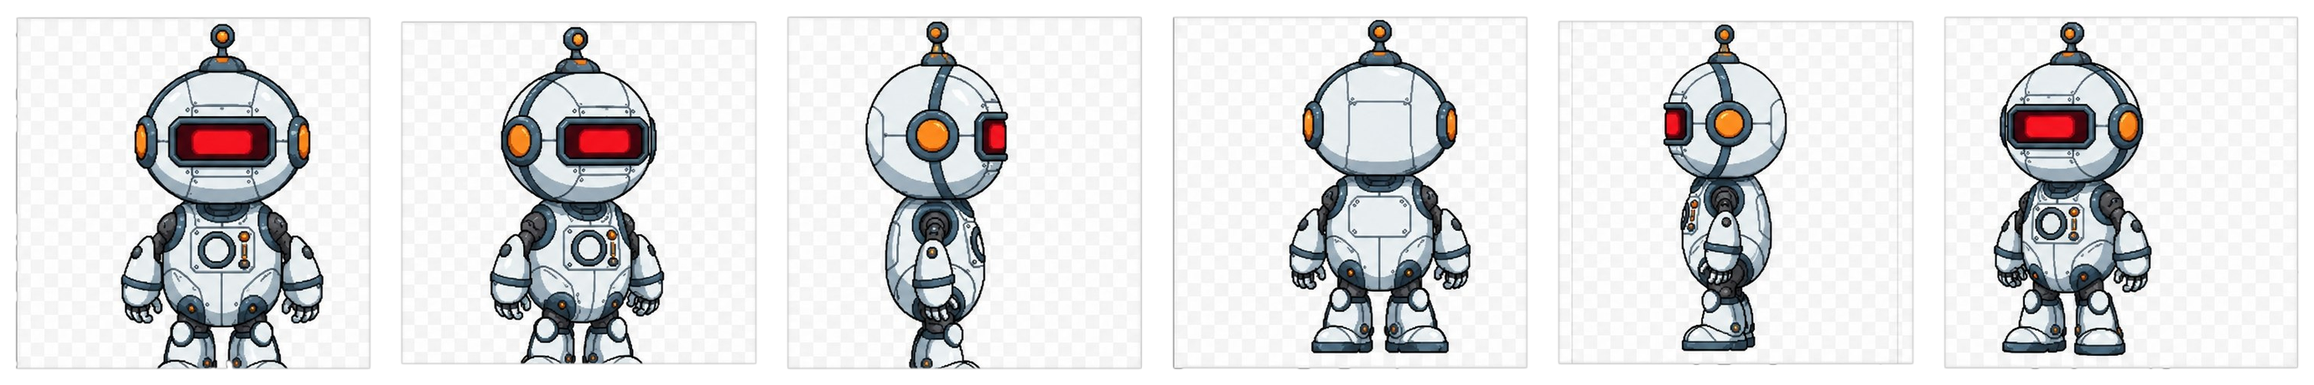
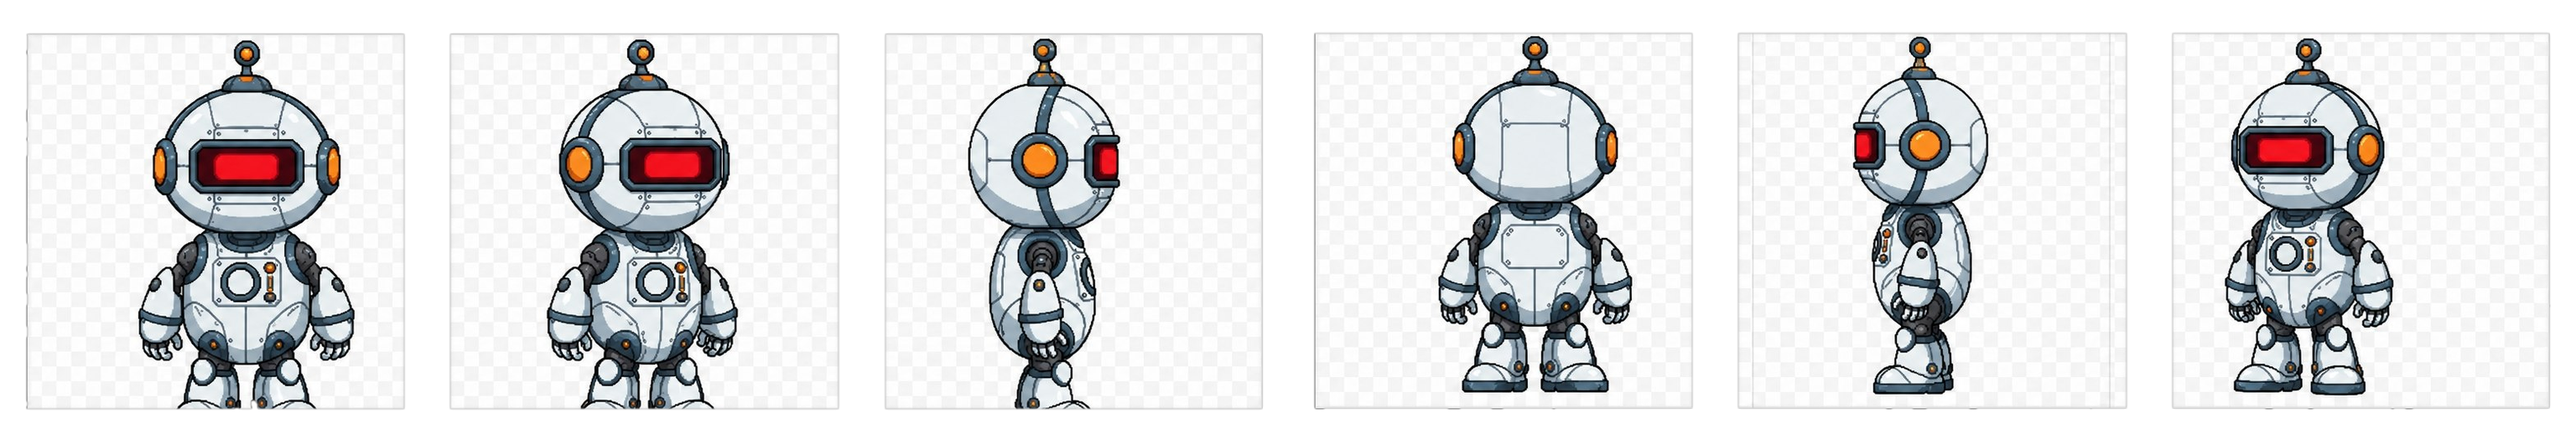
Rebuild Obi turnaround sprite sheet to spec: 512x512 frames, bottom-center pivot so character stands still while turning instead of bobbing

diff --git a/app/globals.css b/app/globals.css
@@ -92,7 +92,8 @@ body { background: #FAFAF9; color: #1C1C1C; }
 
 /* Obi intro card — display-case turnaround mascot + disabled "Buy $OBI"
    button. obi-turnaround.png is a 6-frame sprite sheet (front, front-3/4,
-   side, back, back-3/4, side — 491x491 per frame) generated as a real
+   side, back, back-3/4, side — 512x512 per frame, bottom-center pivot so
+   the character doesn't bob up/down between frames) generated as a real
    turnaround of the character, not a CSS fake. Frame-stepped like a
    miniature figure slowly rotating in a display case. */
 .obi-wave-wrap {
